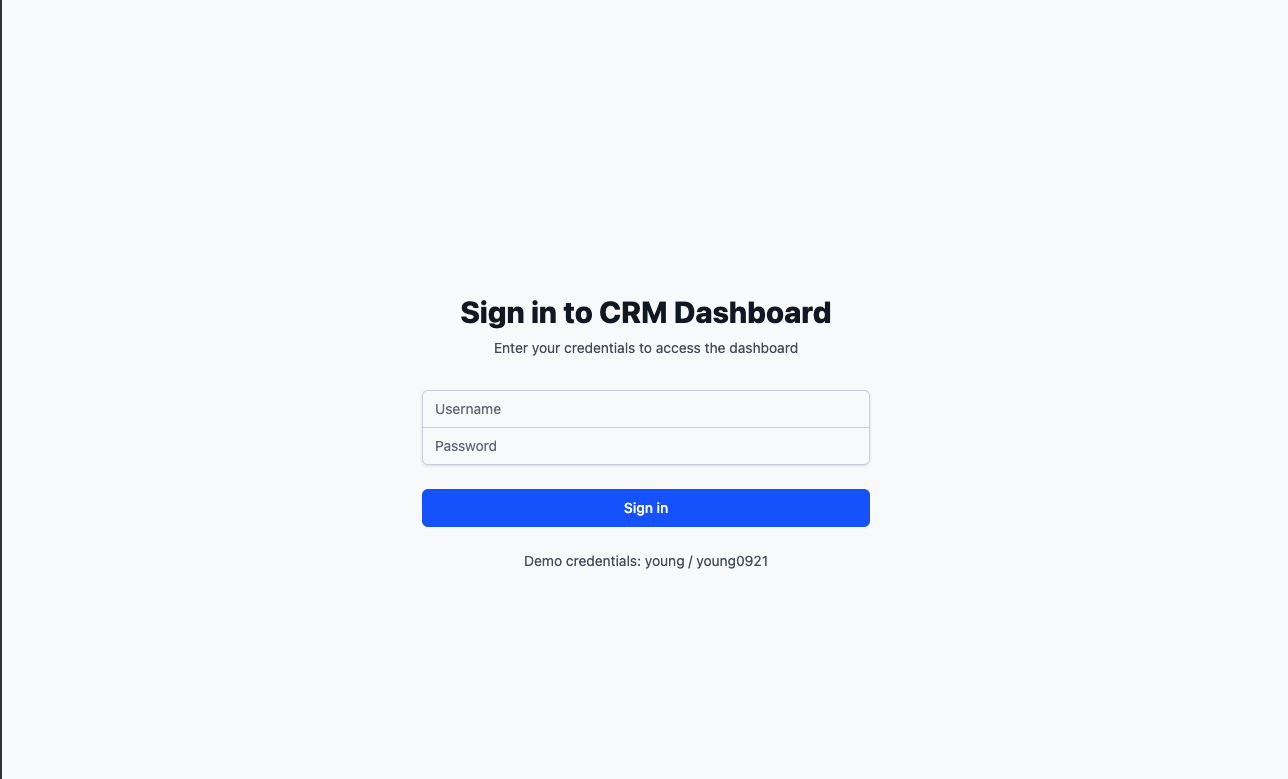
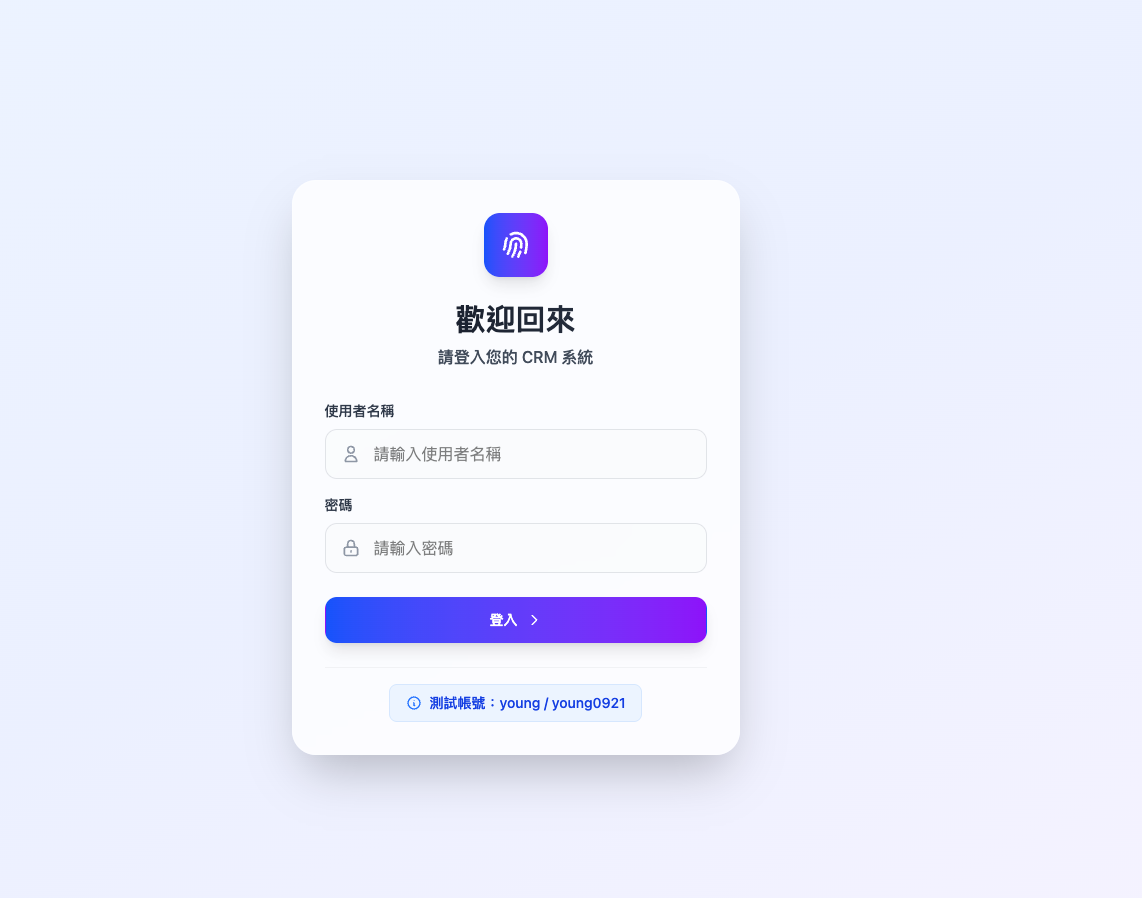
feat: Add initial customer data CSV file with sample entries & update README

Changed region(s): [[0.2452, 0.2773, 0.6743, 0.8935], [0.3984, 0.2157, 0.4904, 0.3081], [0.3371, 0.7702, 0.5517, 0.801]]

diff --git a/frontend/src/components/CustomerImport.tsx b/frontend/src/components/CustomerImport.tsx
@@ -20,6 +20,7 @@ interface FieldMapping {
 }
 
 const CustomerImport: React.FC<CustomerImportProps> = ({ onImportComplete, onCancel }) => {
+  
   const [step, setStep] = useState<'upload' | 'mapping' | 'preview' | 'importing'>('upload');
   const [file, setFile] = useState<File | null>(null);
   const [rawData, setRawData] = useState<ImportData[]>([]);
@@ -191,7 +192,7 @@ const CustomerImport: React.FC<CustomerImportProps> = ({ onImportComplete, onCan
           const value = row[mapping.sourceField];
           if (mapping.targetField === 'is_active') {
             customer[mapping.targetField as keyof Customer] = 
-              ['true', '1', 'yes', '是', 'active', '啟用'].includes(value.toString().toLowerCase()) as any;
+              ['true', '1', 'yes', '是', 'active', '啟用'].includes(value.toStrinfg().toLowerCase()) as any;
           } else {
             customer[mapping.targetField as keyof Customer] = value as any;
           }

diff --git a/frontend/src/components/Login.tsx b/frontend/src/components/Login.tsx
@@ -150,7 +150,7 @@ const Login: React.FC = () => {
                   <path strokeLinecap="round" strokeLinejoin="round" strokeWidth={2} d="M13 16h-1v-4h-1m1-4h.01M21 12a9 9 0 11-18 0 9 9 0 0118 0z" />
                 </svg>
                 <p className="text-sm text-blue-700 font-medium">
-                  測試帳號：young / young0921
+                  測試體驗帳號：www / young0921
                 </p>
               </div>
             </div>

diff --git a/frontend/src/components/Layout.tsx b/frontend/src/components/Layout.tsx
@@ -58,7 +58,7 @@ const Layout: React.FC = () => {
                     </svg>
                   </div>
                   <h1 className="text-xl font-bold bg-gradient-to-r from-blue-600 to-indigo-700 bg-clip-text text-transparent group-hover:from-blue-700 group-hover:to-indigo-800 transition-all duration-300">
-                    BestCRM
+                    AutoCRM Pro
                   </h1>
                 </div>
               </Link>

diff --git a/README.md b/README.md
@@ -1,22 +1,20 @@
-# BestCRM - 現代化客戶關係管理系統
+# AutoCRM Pro - 輕量型智慧全端 AI CRM 系統
 
 <div align="center">
 
-![BestCRM Logo](https://img.shields.io/badge/BestCRM-v1.0-blue?style=for-the-badge)
+![AutoCRM Pro Logo](https://img.shields.io/badge/AutoCRM Pro-v1.0-blue?style=for-the-badge)
 ![Django](https://img.shields.io/badge/Django-4.2.7-green?style=for-the-badge&logo=django)
-![React](https://img.shields.io/badge/React-18-blue?style=for-the-badge&logo=react)
+![React](https://img.shields.io/badge/React-19-blue?style=for-the-badge&logo=react)
 ![TypeScript](https://img.shields.io/badge/TypeScript-5-blue?style=for-the-badge&logo=typescript)
-![TailwindCSS](https://img.shields.io/badge/TailwindCSS-3-06B6D4?style=for-the-badge&logo=tailwindcss)
-
-**使用 DRF 和 React + TS 開發的全端客戶關係管理系統**
+![TailwindCSS](https://img.shields.io/badge/TailwindCSS-4-06B6D4?style=for-the-badge&logo=tailwindcss)
 
 </div>
 
 ---
 
-## 🌟 專案概述
+## 專案概述
 
-BestCRM 是一個為輕便型的的綜合性客戶關係管理系統。採用 Django REST API 後端與 React + TS 前端，提供管理客戶關係、追蹤銷售業績以及分析業務表現所需的一切工具。
+AutoCRM Pro 是一個為輕量化的專為中小型企業與業務團隊設計的高效率 CRM 系統。採用 Django REST API 後端與 React + TS 前端，具備靈活的資料管理、即時查詢、視覺化報表與 AI 智慧摘要，協助你用最輕量的方式打造最智慧的客戶經營流程，提供管理客戶關係、追蹤銷售業績以及分析業務表現所需的一切工具。
 
 目前有三個主要功能模組：
 
@@ -24,16 +22,43 @@ BestCRM 是一個為輕便型的的綜合性客戶關係管理系統。採用 Dj
 - orders (訂單管理)
 - transactions (交易記錄)
 
-### ✨ 核心亮點
+## 核心功能及特色
 
-- **安全驗證** - 基於 JWT 的身份驗證，具備自動令牌刷新功能
-- **響應式設計** - 使用 TailwindCSS 開發 RWD 頁面
-- **即時資料** - 即時更新與資料同步
-- **進階搜尋** - 有即時篩選跟搜尋功能
-- **RESTful API** - 採 RESTful API 設計，將 CRUD 操作整合於一個 View，大幅簡化程式結構並提升擴展性，便於後續功能整合與維護
+### 現代化技術架構
+
+- 使用 React + TypeScript + TailwindCSS 開發，界面清晰，操作流暢
+- RWD，支援桌機與行動裝置使用
+- 模組化架構設計，方便後續功能擴充與客製化
+
+### 客戶資料彈性匯入
+
+- 支援手動新增或批次匯入（CSV / Excel）
+- 多欄位對應設計，可選擇忽略不必要欄位
+- 匯入支援欄位對應與容錯，不完整資料亦可導入
+
+### 進階搜尋與即時篩選
+
+- 多條件篩選與即時模糊搜尋功能
+- 可跨欄位比對，快速定位目標客戶或交易紀錄
+- 操作直覺，適合大量資料環境
+
+### 即時報表生成 - 尚未開發
+
+- 一鍵產出關鍵指標圖表（客戶數、成交金額、轉換率等）
+- 可依區間、來源、標籤等條件切換統計維度
+- 清晰呈現營運概況與銷售表現
+
+### AI 應用擴充性 - 尚未開發
+
+- 系統預留 AI 模組接口，支援導入：
+  - 客戶價值分析與自動分群
+  - 聯絡紀錄摘要與後續建議
+  - 流失預警、銷售機會預測
+  - 自動標籤推薦與話術輔助生成
+
 ---
 
-## 🖼 系統截圖
+## 系統頁面截圖
 
 ### 登入頁面
 
@@ -58,6 +83,10 @@ _財務交易追蹤，包含付款方式詳細資訊_
 ### 搜尋與篩選資料
 
 ![Search Results](./images/search_result.png)
+
+### 匯入客戶資料
+
+![Import Customers](./images/import_customer_data.png)
 
 ---
 
@@ -151,7 +180,7 @@ npm run dev
 - **前端介面**: http://localhost:5173
 - **後端 API**: http://localhost:8000
 - **管理後台**: http://localhost:8000/admin
-- **示範登入**: `young` / `young0921`
+- **示範登入**: `www` / `young0921`
 
 ---
 
@@ -180,14 +209,6 @@ npm run dev
 - **手續費計算** - 自動計算付款處理手續費
 - **閘道整合** - 為付款閘道整合做好準備
 - **財務報表** - 完整的交易歷史與分析
-
-### 🔍 進階功能
-
-- **全域搜尋** - 跨客戶、訂單、交易的搜尋功能
-- **進階篩選** - 多重篩選條件與即時更新
-- **分頁處理** - 高效處理大型資料集
-- **響應式設計** - 在桌機、平板、手機上的完美體驗
-- **資料匯出** - 為報表與分析整合做好準備
 
 ---
 

diff --git a/CHANGELOG.md b/CHANGELOG.md
@@ -12,11 +12,20 @@
 
 ### ✨ 新增功能
 
-- 新增匯入
+- **客戶資料匯入功能**: 新增完整的客戶資料匯入系統
+  - 支援 CSV 和 Excel 檔案格式
+  - 欄位對應功能
+  - 匯入前資料預覽
+  - 錯誤處理和進度追蹤
+  - 測試用範例檔案提供
 
 ### 📝 修改檔案
 
 - `frontend/src/components/Login.tsx` - 登入頁面現代化設計
+- `frontend/package.json` - 新增 PapaParse 和 XLSX 依賴套件
+- `frontend/src/components/CustomerList.tsx` - 新增匯入按鈕和檢視功能
+- `frontend/src/components/CustomerImport.tsx` - 客戶資料匯入組件
+- `frontend/test_customers.csv` - 匯入功能測試檔案
 
 ---
 
@@ -189,8 +198,9 @@
 - [ ] **儀表板分析** - 圖表與 KPI 指標小工具
 - [ ] **電子郵件整合** - 自動化電子郵件行銷
 - [ ] **進階報表** - 自訂報表建構器
-- [ ] **行動應用程式** - React Native 配套應用
+
 - [ ] **API 速率限制** - 增強安全性與效能
 - [ ] **批次操作** - 大量資料匯入匯出
-- [ ] **角色權限管理** - 進階權限系統
+- [ ] 
+- [ ] **行動應用程式** - React Native 配套應用
 - [ ] **Webhook 支援** - 第三方整合
